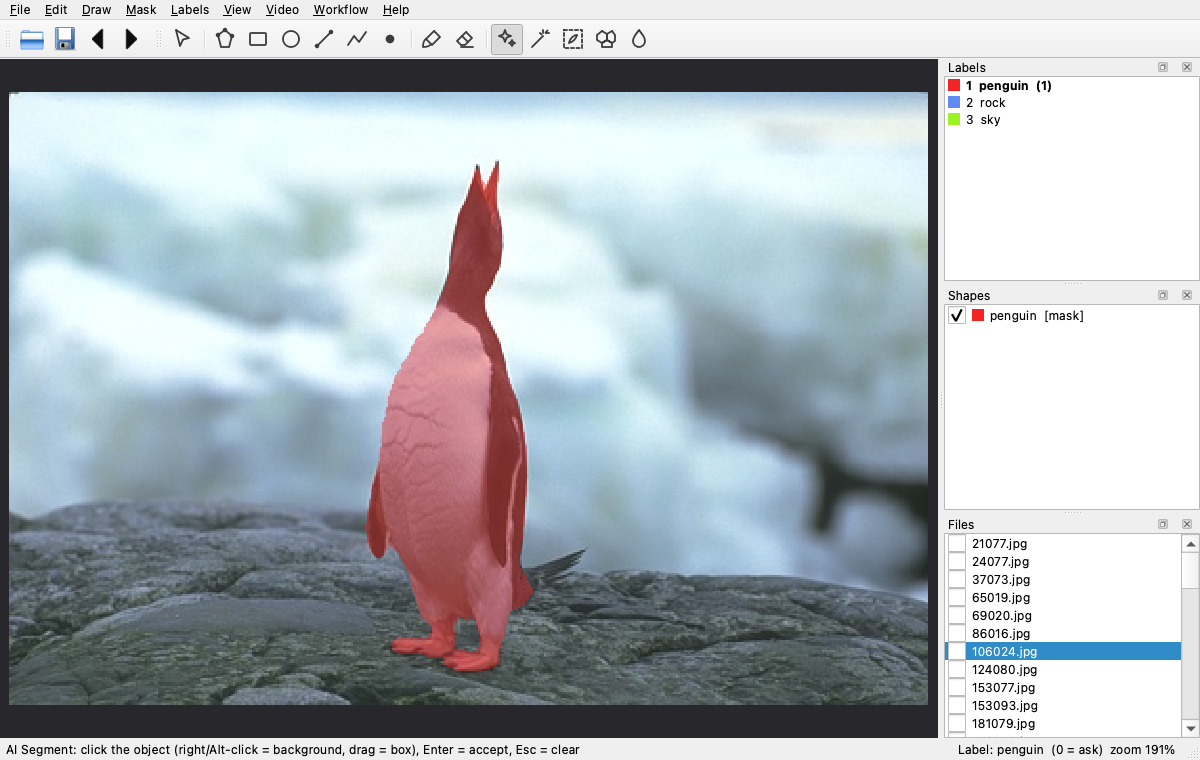
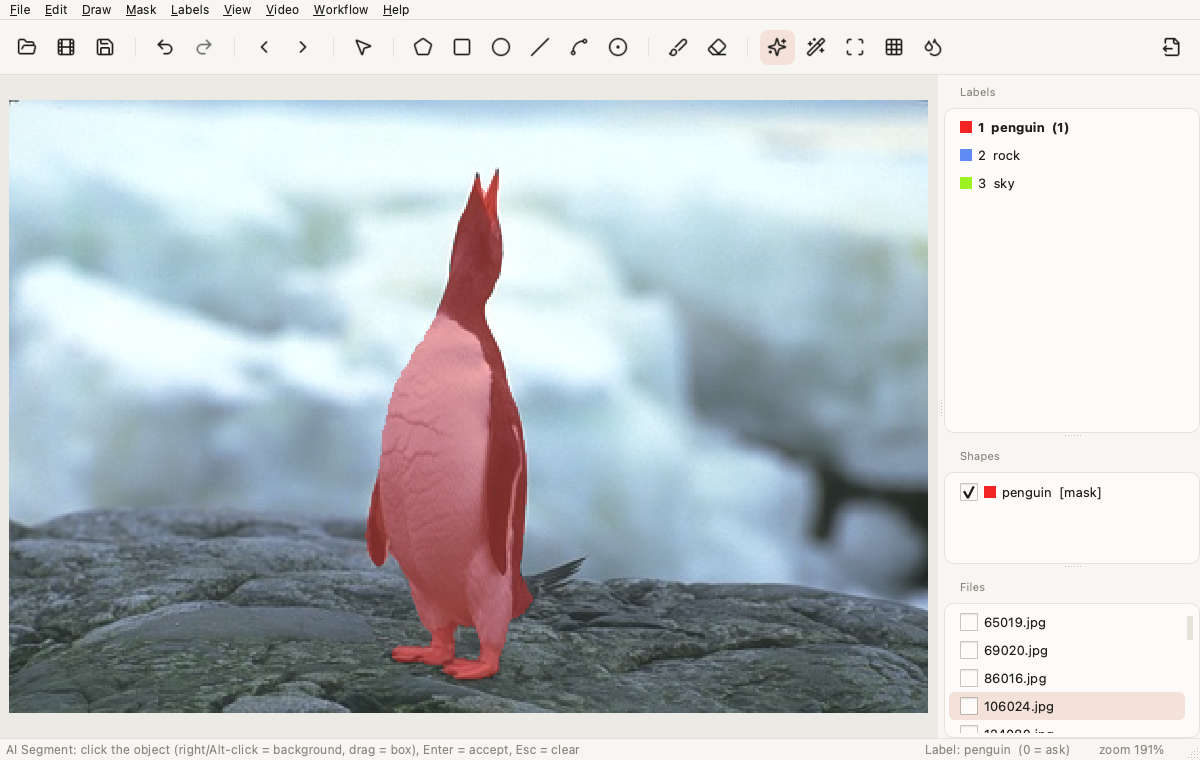
docs: progress, video import and theme in README, architecture, changelog

diff --git a/README.md b/README.md
@@ -36,8 +36,9 @@ or a box with [EfficientSAM](https://github.com/yformer/EfficientSAM), on the CP
 | Display | brightness / contrast / gamma, CLAHE, single-channel view, mask opacity (view only, never saved) |
 | Editing | select (Shift+click for several), move shapes, drag vertices, relabel (double-click), delete, duplicate, copy/paste across images, undo/redo |
 | Labels | **active label** with keys `1`-`9` (no dialog per shape), label dialog with autocomplete, distinct colours, group id, description |
+| Video import | turn mp4 / mov / avi / mkv / webm into PNG, JPEG or WebP frames in any folder, every n-th frame, with a preview of how many images it will write |
 | Automation | track objects into the next frame on **D**, auto clean-up of AI masks, Export Again / export on close, review automatic shapes first |
-| Ease of use | start page with recent folders, icon toolbar with shortcut tooltips, `F1` shortcut list, auto-save on, remembers layout / tool sizes / per-folder labels, AI prefetch of upcoming images |
+| Ease of use | calm light / dark theme, progress bar with Cancel for every slow task (AI, propagation, export, video import), start page with recent folders, icon toolbar with shortcut tooltips, `F1` shortcut list, auto-save on, remembers layout / tool sizes / per-folder labels, AI prefetch of upcoming images |
 | Navigation | open image or folder, file list with done-marks, next/prev, zoom at cursor, pan, fit |
 | Image flags | per-image checkboxes for classification or data cleaning (`--flags`) |
 | Saving | one JSON per image next to the image or in `--output`, optional auto-save, crash-safe writes |
@@ -122,8 +123,8 @@ uv run easy-mask export images/ --format coco --rle --out dataset/  # masks as e
 uv run easy-mask stats images/                     # plain table (or --json)
 uv run easy-mask stats images/ --labels cat,dog    # exit 1 if other labels are used
 
-# video: frames are extracted next to the video (clip_frames/), one JSON per frame
-uv run easy-mask clip.mp4 --frame-step 2 --max-frames 300
+# video: import frames (choose folder and format), then one JSON per frame
+uv run easy-mask clip.mp4                       # asks: folder, PNG/JPEG/WebP, every n-th frame
 uv run easy-mask export clip_frames/ --format davis --out davis/   # indexed PNG per frame
 ```
 
@@ -233,6 +234,7 @@ doesn't do yet, one of them probably does.
 | [SAM 3](https://github.com/facebookresearch/sam3) | Text/concept-prompted segmentation | Candidate for text pre-labelling |
 | [SimpleClick](https://github.com/uncbiag/SimpleClick) | Interactive segmentation research code (MIT) | Benchmark datasets and evaluation protocol |
 | [FiftyOne](https://github.com/voxel51/fiftyone) | Dataset curation and visualisation (Apache-2.0) | Good companion for inspecting exported datasets |
+| [Lucide](https://lucide.dev) | Open-source icon set (ISC) | Toolbar icons (`src/easy_mask/gui/icons/`, licence included) |
 
 easy-mask is an independent implementation: it shares labelme's file format but no code.
 

diff --git a/CHANGELOG.md b/CHANGELOG.md
@@ -19,6 +19,9 @@ All notable changes to this project are documented here. Format follows
 - GUI export kept only `--labels`; labels added during the session are now exported too.
 
 ### Added
+- Progress feedback: a status-bar progress panel with Cancel for AI model download / image preparation, propagation, export and video import; exports and video imports run in the background.
+- File > Import Video Frames: choose output folder, PNG / JPEG / WebP and quality, every n-th frame and a frame limit; opening a not-yet-imported video shows this dialog.
+- Calm minimal theme (light / dark, follows the system), Lucide icons, one icon-only toolbar, quieter start page; side panels hidden until an image is open; View > Panels.
 - Automation: track objects into the next frame on Next Image (Video > Track Objects into Next Frame, Ctrl+Shift+T); auto clean-up of AI / smart-tool masks (Mask > Auto Clean-Up); File > Export Again (Ctrl+Shift+E) and Export Again When Closing, with the last export remembered per folder; review mode visits automatic shapes first.
 - Ease of use: active label with keys 1-9, start page with recent folders, icon toolbar with shortcut tooltips, Help > Keyboard Shortcuts (F1), remembered window layout / tool sizes / recent folders, per-folder `.easy-mask.json` (labels, flags, active label, annotation folder), AI Segment prefetch of upcoming images.
 - Workflow: COCO RLE export (`--rle`), `easy-mask stats` and a statistics dialog, review mode (`N` / `Shift+N`, `reviewed` flag), copy shapes from previous image, `--strict-labels`; RLE vs polygon benchmark.

diff --git a/docs/architecture.md b/docs/architecture.md
@@ -61,7 +61,11 @@ src/easy_mask/
     session.py           remembered state: window layout, tool sizes, recent folders, projects
     welcome.py           start page (open buttons, recent folders)
     shortcuts.py         Help > Keyboard Shortcuts, built from the menus
-    icons.py, icons/     toolbar SVG icons
+    icons.py, icons/     Lucide toolbar icons (ISC), tinted to the palette
+    theme.py             calm light / dark theme: palette, stylesheet, Fusion style
+    progress.py          status-bar progress panel (several tasks, Cancel)
+    export_worker.py     dataset export on a background thread
+    video_import.py      Import Video Frames dialog + background extraction worker
     tools/base.py        CanvasTool: plug-in point for pixel tools (canvas forwards events)
     tools/brush.py       brush and eraser
     tools/region.py      magic wand, GrabCut box, superpixel picker (Shift add / Alt subtract)
